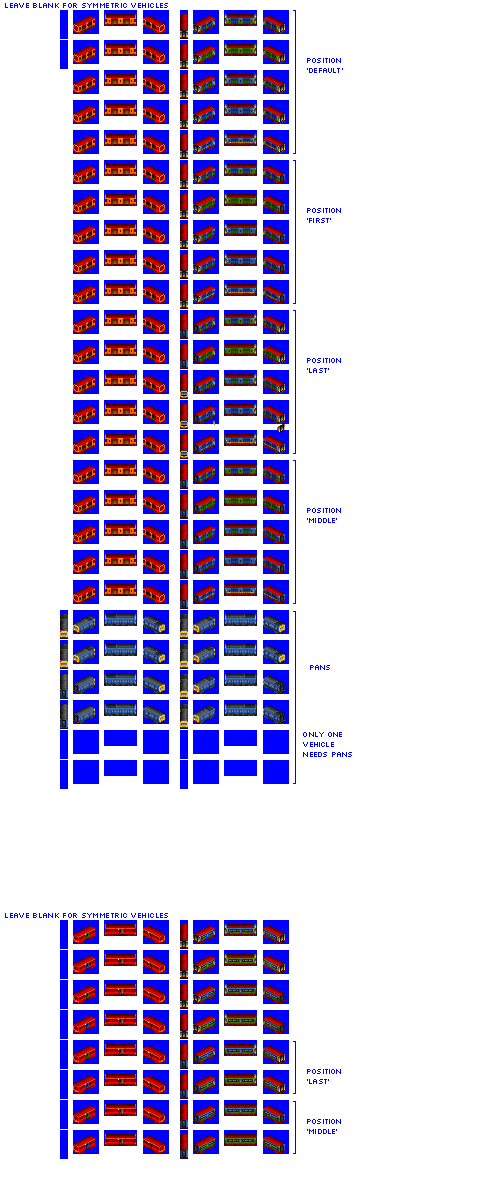
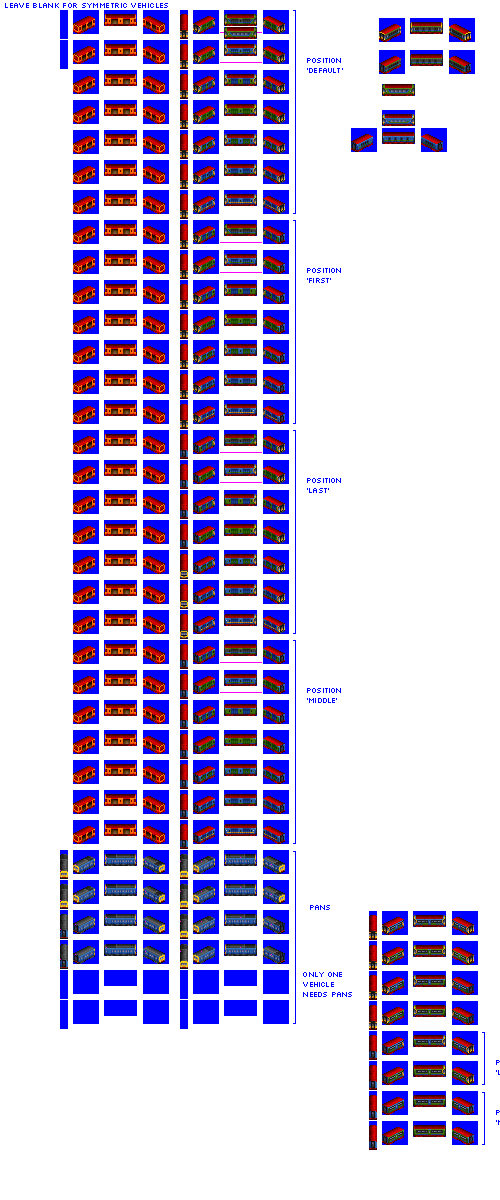
Change: more WIP on Electra express mail railcar

diff --git a/src/rosters/pony.py b/src/rosters/pony.py
@@ -208,10 +208,10 @@ def main():
                     120,
                     120,
                 ],
-                "hst": [0, 0, 0, 112, 128, 128], # CABBAGE
-                "hst_on_lgv": [0, 0, 0, 112, 140, 140], # CABBAGE
-                "very_high_speed": [0, 0, 0, 0, 120, 120], # CABBAGE
-                "very_high_speed_on_lgv": [0, 0, 0, 0, 140, 186], # CABBAGE
+                "hst": [0, 0, 0, 112, 128, 128],  # CABBAGE
+                "hst_on_lgv": [0, 0, 0, 112, 140, 140],  # CABBAGE
+                "very_high_speed": [0, 0, 0, 0, 120, 120],  # CABBAGE
+                "very_high_speed_on_lgv": [0, 0, 0, 0, 140, 186],  # CABBAGE
             },
             "METRO": {
                 "standard": [45, 55, 65]
@@ -497,6 +497,15 @@ def main():
                     ("COLOUR_RED", "COLOUR_LIGHT_BLUE"),
                 ],
             },
+            "ROYAL_MAIL": {
+                "remap_to_cc": {
+                    "company_colour1": "COLOUR_RED",
+                    "company_colour2": "company_colour2",
+                },
+                "docs_image_input_cc": [
+                    ("COLOUR_RED", "COLOUR_LIGHT_BLUE"),
+                ],
+            },
             "INDUSTRIAL_BROWN": {
                 "remap_to_cc": {
                     "company_colour1": "COLOUR_BROWN",
@@ -666,6 +675,61 @@ def main():
             },
             {
                 "relative_spriterow_num": 4,
+                "remap_to_cc": {
+                    "company_colour1": "COLOUR_RED",
+                    "company_colour2": "company_colour2",
+                },
+                "docs_image_input_cc": [
+                    ("COLOUR_RED", "COLOUR_RED"),
+                    ("COLOUR_RED", "COLOUR_WHITE"),
+                ],
+            },
+        ],
+        express_railcar_mail_liveries=[
+            {
+                "relative_spriterow_num": 0,
+                "docs_image_input_cc": [
+                    ("COLOUR_BLUE", "COLOUR_BLUE"),
+                    ("COLOUR_RED", "COLOUR_WHITE"),
+                ],
+            },
+            {
+                "relative_spriterow_num": 1,
+                "docs_image_input_cc": [
+                    ("COLOUR_BLUE", "COLOUR_BLUE"),
+                    ("COLOUR_RED", "COLOUR_WHITE"),
+                ],
+            },
+            {
+                "relative_spriterow_num": 2,
+                "docs_image_input_cc": [
+                    ("COLOUR_BLUE", "COLOUR_BLUE"),
+                    ("COLOUR_RED", "COLOUR_WHITE"),
+                ],
+            },
+            {
+                "relative_spriterow_num": 3,
+                "docs_image_input_cc": [
+                    ("COLOUR_BLUE", "COLOUR_BLUE"),
+                    ("COLOUR_RED", "COLOUR_WHITE"),
+                ],
+            },
+            {
+                "relative_spriterow_num": 4,
+                "docs_image_input_cc": [
+                    ("COLOUR_BLUE", "COLOUR_BLUE"),
+                    ("COLOUR_RED", "COLOUR_WHITE"),
+                ],
+            },
+            {
+                "relative_spriterow_num": 5,
+                "docs_image_input_cc": [
+                    ("COLOUR_BLUE", "COLOUR_BLUE"),
+                    ("COLOUR_RED", "COLOUR_WHITE"),
+                ],
+            },
+            {
+                "relative_spriterow_num": 6,
                 "remap_to_cc": {
                     "company_colour1": "COLOUR_RED",
                     "company_colour2": "company_colour2",

diff --git a/src/train.py b/src/train.py
@@ -1577,7 +1577,9 @@ class MailEngineExpressRailcarConsist(MailEngineConsist):
         self.gestalt_graphics = GestaltGraphicsConsistPositionDependent(
             spriterow_group_mappings,
             consist_ruleset="railcars_4_unit_sets",
-            liveries=self.roster.default_mail_liveries,
+            liveries=self.roster.get_liveries_by_name(
+                kwargs.get("additional_liveries", [])
+            ),
             pantograph_type=self.pantograph_type,
         )
 
@@ -4633,7 +4635,7 @@ class MailExpressRailcarTrailerCarConsist(MailRailcarTrailerCarConsistBase):
         super().__init__(**kwargs)
         self.speed_class = "express"
         self.buy_cost_adjustment_factor = 2.1
-        self.floating_run_cost_multiplier = 4.75
+        self.floating_run_cost_multiplier = 3.2
         self._intro_year_days_offset = (
             global_constants.intro_month_offsets_by_role_group["express_non_core"]
         )

diff --git a/src/vehicles/electra.py b/src/vehicles/electra.py
@@ -12,10 +12,11 @@ def main(roster_id):
         name="Electra", # or RedStar?
         role="express_mail_railcar",
         role_child_branch_num=-1,  # joker to hide them from simplified mode
-        power_by_power_source={"AC": 1120},
+        power_by_power_source={"AC": 1440},
         pantograph_type="z-shaped-single-with-base",
         gen=5,
         intro_year_offset=1,  # introduce later by design
+        additional_liveries=["GNER", "SWOOSH_1995", "SWOOSH_2_1995", "ROYAL_MAIL", "ROYAL_MAIL", "ROYAL_MAIL"], # CABBAGE
         sprites_complete=False,
     )
 

diff --git a/src/roster.py b/src/roster.py
@@ -45,6 +45,9 @@ class Roster(object):
         self.electric_railcar_mail_liveries = kwargs.get(
             "electric_railcar_mail_liveries", []
         )
+        self.express_railcar_mail_liveries = kwargs.get(
+            "express_railcar_mail_liveries", []
+        )
         self.diesel_railcar_mail_liveries = kwargs.get(
             "diesel_railcar_mail_liveries", []
         )
